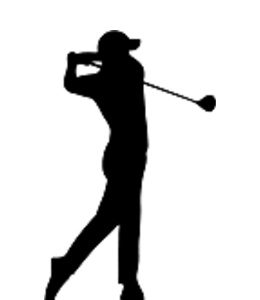
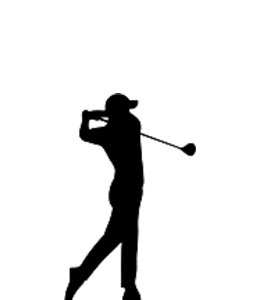
아이콘 크기 조정 — 드라이버 90% · 웨지 120% · 퍼터 90%, 아이언 헤드 잘림 해소
- 아이언은 클럽 헤드까지 전부 담기도록 가로 기준으로 맞췄다 (잘림 없음)
- 웨지 120% 는 캔버스를 넘쳐서, 웨지를 1.0 으로 두고 나머지를 같은 비율로
  낮추고 CSS 아이콘 상자를 52x60 → 62x72 로 키웠다.
  서로의 크기 관계는 지시 그대로다

원본을 assets/src/ 에 넣고 도구를 하나로 합쳤다 (tools/build_club_icons.js).
이미 만들어진 아이콘을 다시 돌려 크기·자르기가 누적되는 사고가 있었다 —
이제 항상 원본에서만 만든다. 캔버스 밖으로 잘리면 로그로 알려준다.

Claude-Session: https://claude.ai/code/session_01NFSBRwy8mpDDhGYjXUnCJN

Changed region(s): [[0.1538, 0.09, 0.8308, 1.0], [0.6462, 0.48, 0.7692, 0.54]]

diff --git a/tools/build_club_icons.js b/tools/build_club_icons.js
@@ -1,0 +1,117 @@
+/* 클럽 피팅 아이콘 만들기 — assets/src/ 원본 → assets/*.png (마스크용)
+ *
+ *   node tools/build_club_icons.js
+ *
+ * ⚠ 반드시 **원본(assets/src)** 에서 만든다. 이미 만들어진 assets/*.png 를
+ *    다시 돌리면 크기·자르기가 누적돼 그림이 망가진다(실제로 한 번 그랬음).
+ *
+ * 하는 일
+ *   ① 흰 배경 제거 — 밝기를 알파로 바꾼다. 흰색만 지우면 가장자리가 계단이 된다
+ *   ② 원본 테두리 선·발밑 지면선 제거 (가로로 넓고 얇은 띠)
+ *   ③ 알파를 단단하게 — 반투명이 남으면 그 아이콘만 회색으로 떠 보인다
+ *      (golfer.png 는 픽셀의 100%가 반투명이라 혼자 흐렸다)
+ *   ④ 색을 순수 검정으로 통일
+ *   ⑤ 공통 캔버스에 아래·가운데 정렬 — CSS 에서 클럽별로 크기를 만지지 않아도 된다
+ *
+ * 크기를 바꾸려면 아래 FIT 만 고치면 된다.
+ */
+const { chromium } = require('playwright-core');
+const fs = require('fs'), path = require('path');
+const ROOT = path.join(__dirname, '..');
+const SRC = path.join(ROOT, 'assets', 'src');
+const OUT = path.join(ROOT, 'assets');
+const CANVAS_W = 260, CANVAS_H = 300;
+
+/* h = 캔버스 높이 대비 / w = 캔버스 너비 대비.
+   사장님 지시(2026-07-27): 드라이버 90% · 웨지 120% · 퍼터 90%,
+   아이언은 클럽 헤드가 잘리지 않게.
+   웨지 120%가 캔버스를 넘치므로 웨지를 1.0 으로 두고 나머지를 같은 비율로 낮췄다
+   — 서로의 크기 관계는 지시 그대로다. 화면에서 실제로 커 보이도록
+   CSS 아이콘 상자도 52x60 → 62x72 로 함께 키웠다. */
+const FIT = {
+  golfer: { file: 'golfer.png', h: 0.689 },   // 드라이버
+  iron:   { file: 'iron.jpg',   w: 0.833 },   // 클럽이 옆으로 길어 가로 기준 — 헤드까지 전부 담긴다
+  wedge:  { file: 'wedge.jpg',  h: 1.00 },
+  putter: { file: 'putter.jpg', h: 0.566 },
+};
+
+(async () => {
+  const b = await chromium.launch({ args: ['--no-sandbox'],
+    executablePath: process.env.CHROME || '/opt/pw-browsers/chromium-1194/chrome-linux/chrome' });
+  const p = await b.newPage();
+  await p.goto('about:blank');
+
+  for (const [name, fit] of Object.entries(FIT)) {
+    const file = path.join(SRC, fit.file);
+    if (!fs.existsSync(file)) { console.log(`건너뜀 — 원본 없음: ${fit.file}`); continue; }
+    const mime = fit.file.endsWith('.png') ? 'image/png' : 'image/jpeg';
+    const d = fs.readFileSync(file).toString('base64');
+
+    const r = await p.evaluate(async ({ d, mime, fit, CW, CH }) => {
+      const img = new Image();
+      await new Promise((res, rej) => { img.onload = res; img.onerror = rej; img.src = `data:${mime};base64,` + d; });
+      const W = img.width, H = img.height;
+      const c = document.createElement('canvas'); c.width = W; c.height = H;
+      const x = c.getContext('2d'); x.drawImage(img, 0, 0);
+      const im = x.getImageData(0, 0, W, H), a = im.data;
+      const hadAlpha = mime === 'image/png';
+
+      // ① 배경 제거 + ③ 알파 단단하게 + ④ 검정
+      for (let i = 0; i < a.length; i += 4) {
+        let al;
+        if (hadAlpha) {
+          al = a[i + 3];
+        } else {
+          const lum = 0.299 * a[i] + 0.587 * a[i + 1] + 0.114 * a[i + 2];
+          al = lum >= 235 ? 0 : lum <= 200 ? 255 : Math.round((235 - lum) / 35 * 255);
+        }
+        a[i + 3] = al >= 200 ? 255 : al <= 60 ? 0 : Math.round((al - 60) / 140 * 255);
+        a[i] = a[i + 1] = a[i + 2] = 0;
+      }
+      const A = (px, py) => a[(py * W + px) * 4 + 3];
+
+      // ② 가로로 넓고 얇은 띠 = 테두리 선 / 지면선 → 제거
+      let minX = W, maxX = 0;
+      for (let y = 0; y < H; y++) for (let px = 0; px < W; px++)
+        if (A(px, y) > 40) { if (px < minX) minX = px; if (px > maxX) maxX = px; }
+      const figW = Math.max(1, maxX - minX + 1);
+      const wipe = (y) => { for (let px = 0; px < W; px++) a[(y * W + px) * 4 + 3] = 0; };
+      const wide = (y) => {
+        let n = 0; for (let px = 0; px < W; px++) if (A(px, y) > 40) n++;
+        return n > figW * 0.55;
+      };
+      let cut = 0, run = 0;
+      for (let y = H - 1; y > H * 0.80; y--) { if (wide(y)) { wipe(y); cut++; run++; } else if (run) break; }
+      run = 0;
+      for (let y = 0; y < H * 0.10; y++) { if (wide(y)) { wipe(y); cut++; run++; } else if (run) break; }
+      x.putImageData(im, 0, 0);
+
+      // ⑤ 경계 상자 → 공통 캔버스에 아래·가운데 정렬
+      let x0 = W, y0 = H, x1 = 0, y1 = 0;
+      for (let y = 0; y < H; y++) for (let px = 0; px < W; px++)
+        if (A(px, y) > 40) {
+          if (px < x0) x0 = px; if (px > x1) x1 = px;
+          if (y < y0) y0 = y; if (y > y1) y1 = y;
+        }
+      const bw = x1 - x0 + 1, bh = y1 - y0 + 1;
+      const scale = fit.w ? (CW * fit.w) / bw : (CH * fit.h) / bh;
+      const dw = bw * scale, dh = bh * scale;
+      const out = document.createElement('canvas'); out.width = CW; out.height = CH;
+      const o = out.getContext('2d');
+      o.imageSmoothingQuality = 'high';
+      o.drawImage(c, x0, y0, bw, bh, (CW - dw) / 2, CH - dh, dw, dh);
+
+      // 잘려 나간 게 있으면 알려준다 — 조용히 자르면 나중에 원인을 못 찾는다
+      const over = Math.max(0, Math.round(dw - CW)) + Math.max(0, Math.round(dh - CH));
+      return { png: out.toDataURL('image/png').split(',')[1],
+               src: `${W}x${H}`, box: `${bw}x${bh}`,
+               drawn: `${Math.round(dw)}x${Math.round(dh)}`, cut, over };
+    }, { d, mime, fit, CW: CANVAS_W, CH: CANVAS_H });
+
+    fs.writeFileSync(path.join(OUT, name + '.png'), Buffer.from(r.png, 'base64'));
+    console.log(`${name.padEnd(7)} ${fit.file.padEnd(11)} ${r.src} → 도형 ${r.box} → ${r.drawn}` +
+      (r.cut ? ` · 선 ${r.cut}줄 제거` : '') +
+      (r.over ? `  ⚠ 캔버스 밖으로 ${r.over}px 잘림` : ''));
+  }
+  await b.close();
+})();

diff --git a/css/style.css b/css/style.css
@@ -1950,7 +1950,7 @@ body, .view, .cf-screen, .card, .sheet { word-break: keep-all; overflow-wrap: br
    해서 만든다. 그래야 클럽마다 mask-size 를 따로 만지지 않아도 크기가 맞는다.
    알파도 그때 단단하게 만든다 — 반투명이 남으면 그 아이콘만 회색으로 떠 보인다. */
 .cf-club-ico {
-  display: block; width: 52px; height: 60px; background-color: #000;
+  display: block; width: 62px; height: 72px; background-color: #000;
   -webkit-mask-repeat: no-repeat; mask-repeat: no-repeat;
   -webkit-mask-position: bottom center; mask-position: bottom center;
   -webkit-mask-size: contain; mask-size: contain;
